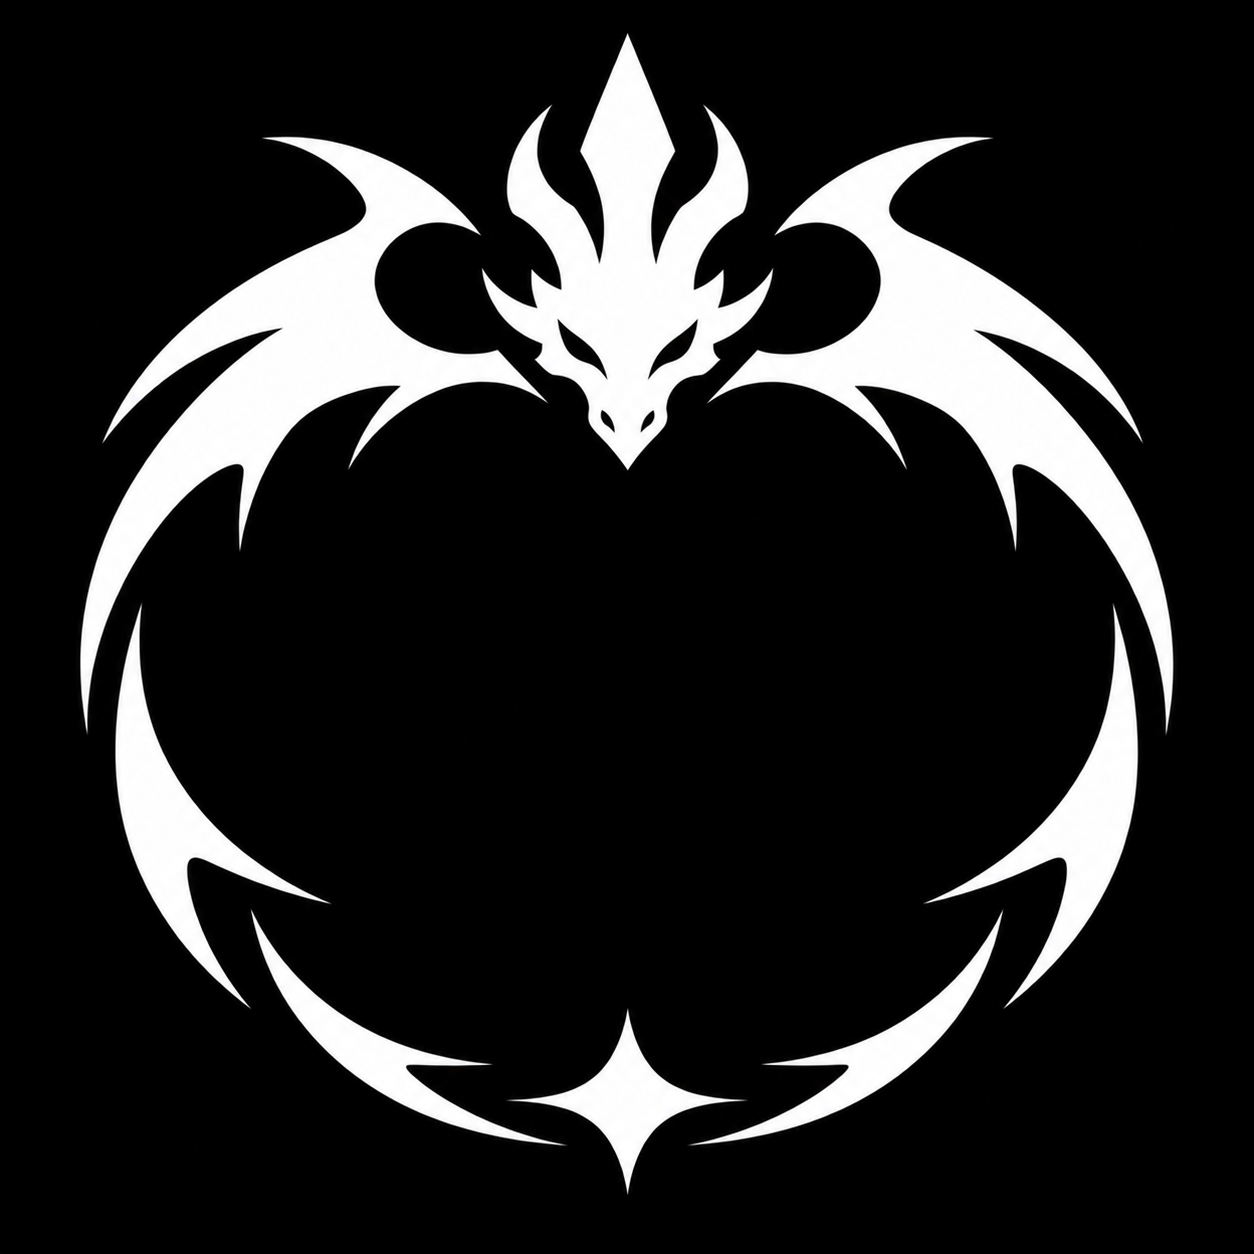
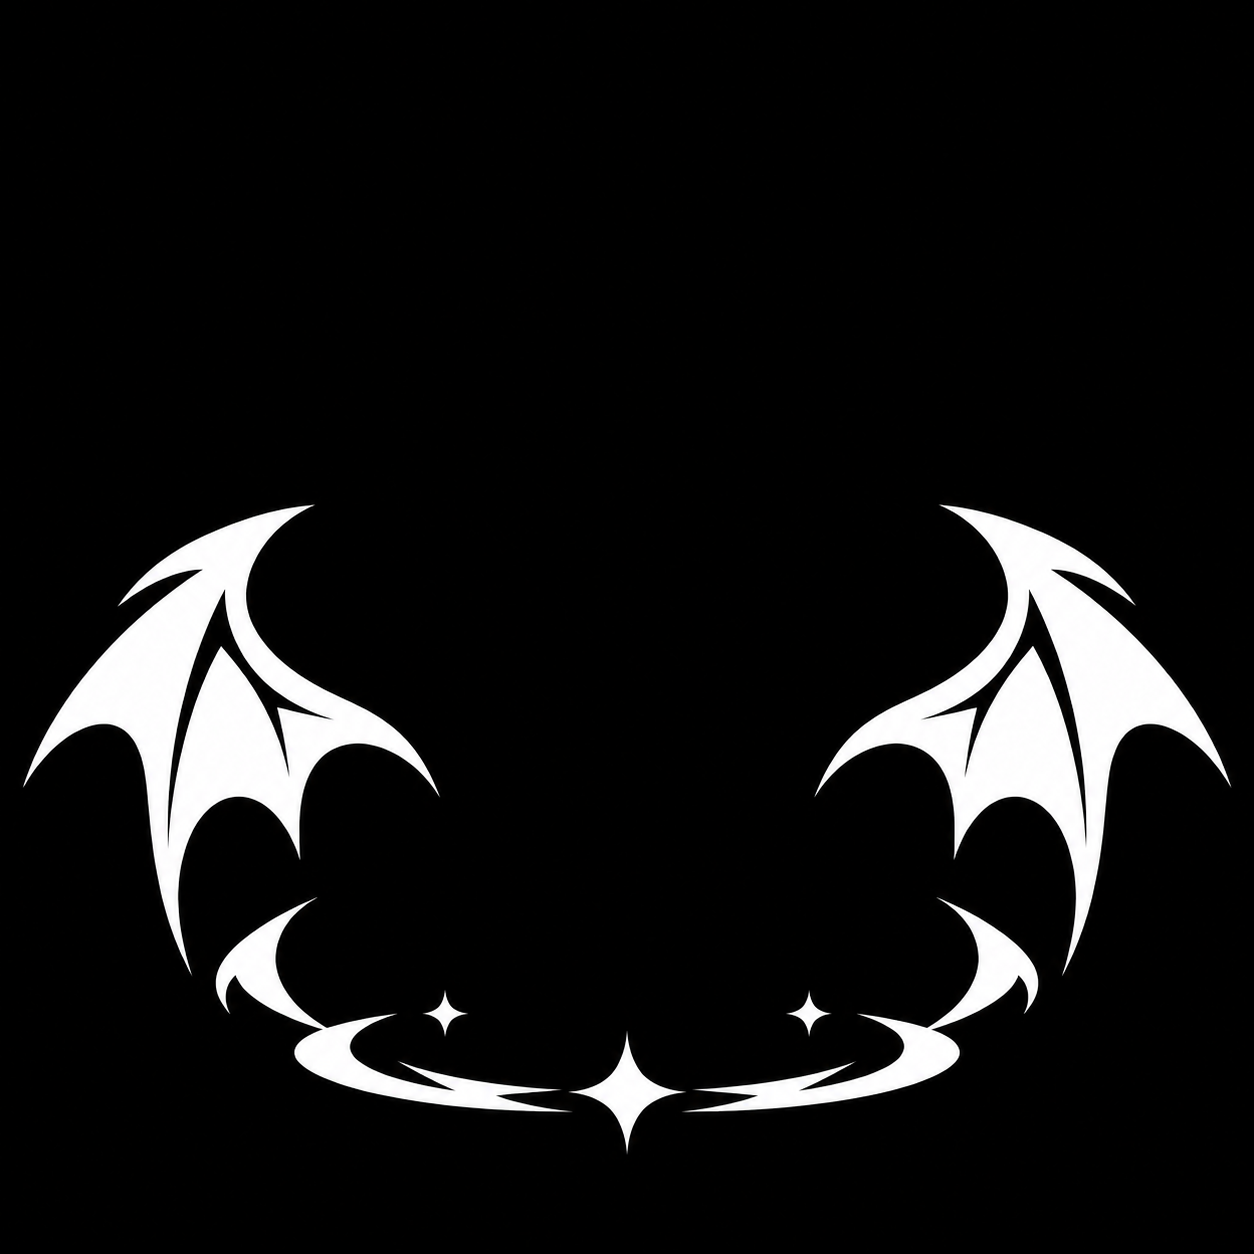
치복 타운: 레이드 세트 이펙트 새 그림(드래곤 붉게·오우거 초록, 무기는 지금 클래스만), 바로가기 '회관', 치트 전설 작물만

Changed region(s): [[0.0, 0.0311, 0.9641, 0.933], [0.9641, 0.5909, 0.9952, 0.622]]

diff --git a/game.html b/game.html
@@ -1587,16 +1587,22 @@ function drawEyes(g, c, ey, t) {
     else { g.beginPath(); g.ellipse(ex, ey, 2.4, 3.2, 0, 0, Math.PI * 2); g.fill(); }
   }
 }
-// ───── 레드 드래곤 세트 이펙트 (2026-11-20): 모자·눈·의상·검·활·지팡이 모두 레드 드래곤이면 등 뒤에 은은하게 빛나는 붉은 문양 (그림 fx-dragon, 흰 그림을 붉게 물들임)
-const dragonFull = c => c.hat === 'rdragon' && c.eyes === 'rdragon' && c.suit === 'rdragon' && c.wsk?.sword === 'rdragon' && c.wsk?.bow === 'rdragon' && c.wsk?.staff === 'rdragon';
-let FXD = null;
-function dragonAura(g, t) {
-  const im = ART['fx-dragon']; if (!im) return;
-  if (!FXD) { const W = 256, H = Math.round(W * im.height / im.width), cv = document.createElement('canvas'); cv.width = W; cv.height = H; const x = cv.getContext('2d');
-    x.drawImage(im, 0, 0, W, H); x.globalCompositeOperation = 'source-in'; const gr = x.createLinearGradient(0, 0, 0, H); gr.addColorStop(0, '#ff6a3a'); gr.addColorStop(.55, '#e8202a'); gr.addColorStop(1, '#a30d1e'); x.fillStyle = gr; x.fillRect(0, 0, W, H); FXD = cv; }
-  const p = .5 + .5 * Math.sin(t * 1.8), w = 104 * (1 + p * .04), h = w * FXD.height / FXD.width;
-  g.save(); g.globalAlpha = .45 + p * .25; g.shadowColor = 'rgba(255,40,30,.9)'; g.shadowBlur = 10 + p * 8;
-  g.drawImage(FXD, -w / 2, -33 - h / 2, w, h); g.restore();
+// ───── 레이드 세트 이펙트 (2026-11-20): 모자·눈·의상 + 지금 클래스 무기 스킨이 모두 그 레이드 세트면 등 뒤에 은은하게 빛나는 문양
+// 그림 fx-<세트>: 정사각 판 그대로, 판 가운데 아래 고리(세로 86%)가 발 자리. 흰 그림을 세트 색으로 물들임
+const RAID_FX = {
+  rdragon: { img: 'fx-dragon', c: ['#ff7a45', '#e8202a', '#a30d1e'], glow: 'rgba(255,40,30,.9)' },
+  ogre: { img: 'fx-ogre', c: ['#b8f06a', '#4fbf2e', '#1f7a1e'], glow: 'rgba(80,230,60,.9)' },
+};
+const raidFxOf = c => { for (const k in RAID_FX) if (c.hat === k && c.eyes === k && c.suit === k && c.wsk?.[c.cls || 'sword'] === k) return k; return null; };
+const AURA_C = {};
+function setAura(g, k, t) {
+  const R = RAID_FX[k], im = ART[R.img]; if (!im) return;
+  let cv = AURA_C[k];
+  if (!cv) { const W = 320, H = Math.round(W * im.height / im.width); cv = AURA_C[k] = document.createElement('canvas'); cv.width = W; cv.height = H; const x = cv.getContext('2d');
+    x.drawImage(im, 0, 0, W, H); x.globalCompositeOperation = 'source-in'; const gr = x.createLinearGradient(0, H * .4, 0, H * .92); gr.addColorStop(0, R.c[0]); gr.addColorStop(.55, R.c[1]); gr.addColorStop(1, R.c[2]); x.fillStyle = gr; x.fillRect(0, 0, W, H); }
+  const p = .5 + .5 * Math.sin(t * 1.8), w = 128 * (1 + p * .03), h = w * cv.height / cv.width;
+  g.save(); g.globalAlpha = .5 + p * .25; g.shadowColor = R.glow; g.shadowBlur = 8 + p * 8;
+  g.drawImage(cv, -w / 2, -h * .86, w, h); g.restore();
 }
 function drawChar(ctx, x, y, c, t = 0, scale = 1) {
   // (x, y) = 발 위치
@@ -1605,7 +1611,7 @@ function drawChar(ctx, x, y, c, t = 0, scale = 1) {
   const walk = c.moving && !sit ? Math.sin(t * 14) : 0;
   const bob = c.moving && !sit ? Math.abs(Math.sin(t * 14)) * 2 : Math.sin(t * 2.2 + (c.seed || 0)) * .6;
   if (!sit) { const rb = c.still ? 0 : c === me ? (me.roof?.h || 0) : (c.rz || 0), dz = Math.max(0, jz - rb), k = Math.max(.45, 1 - dz / 160); ctx.fillStyle = `rgba(31,42,58,${.18 * k})`; ctx.beginPath(); ctx.ellipse(0, dz, 11 * k, 3.5 * k, 0, 0, Math.PI * 2); ctx.fill(); }   // 지붕 위면 그림자도 지붕에
-  if (dragonFull(c)) dragonAura(ctx, t + (c.seed || 0));   // 2026-11-20 레드 드래곤 세트 6부위를 다 입으면 캐릭터 뒤에 붉은 드래곤 문양
+  { const fk = raidFxOf(c); if (fk) setAura(ctx, fk, t + (c.seed || 0)); }   // 2026-11-20 레이드 세트를 다 입으면 캐릭터 뒤에 문양 (드래곤 붉게 · 오우거 초록)
   const eq = c.equip || {}, hy = -45 - bob, P = [];
   // 뒷머리(긴 머리·묶은 머리)는 몸·팔보다 먼저 그려서 몸 뒤로
   const hp = hairParts(c.hair, c.hairC || HAIR_COLORS[0], hy);
@@ -1745,7 +1751,7 @@ function bootDone() { setTimeout(() => { try { localStorage.setItem('cbt-booting
 // ───── 사용자가 그린 그림 (텍스쳐 템플릿/내 디자인 → scripts/img-export/town-art.py → assets/img/town) ─────
 // 다 불러온 뒤에 마을을 시작함 (artReady). 못 불러온 그림은 예전 코드 그림을 그대로 씀
 const ART = {};
-const ART_N = ['fx-dragon', 'b-farmrank', 'b-suggest', 'b-beginner', 'b-dex', 'bench', 'b-tower', 'b-kfr', 'dportal', 'dportal-hole', 'b-gacha', 'b-cafe', 'b-skin', 'b-hall', 'b-smith', 'b-fishshop', 'b-fishrank', 'b-lumber', 'b-quarry', 'b-farmshed', 'farm', 'raid-bg', 'fountain', 'fountain-water', ...[1, 2, 3, 4, 5, 6, 7, 8].map(i => 'hair-' + i),
+const ART_N = ['fx-dragon', 'fx-ogre', 'b-farmrank', 'b-suggest', 'b-beginner', 'b-dex', 'bench', 'b-tower', 'b-kfr', 'dportal', 'dportal-hole', 'b-gacha', 'b-cafe', 'b-skin', 'b-hall', 'b-smith', 'b-fishshop', 'b-fishrank', 'b-lumber', 'b-quarry', 'b-farmshed', 'farm', 'raid-bg', 'fountain', 'fountain-water', ...[1, 2, 3, 4, 5, 6, 7, 8].map(i => 'hair-' + i),
   ...[1, 2, 3, 4, 5].map(i => 'tree-' + i), ...[1, 2, 3, 4, 5, 6, 7, 8].flatMap(i => ['house-' + i, 'house-' + i + '-roof']),
   ...['head', 'wing', 'arm', 'body', 'leg'].map(n => 'd-' + n), 'rd-hat', 'rd-suit', 'rd-sword', 'rd-bow', 'rd-staff', 'portal', 'portal-hole',
   ...['head', 'body', 'rarm', 'larm', 'leg', 'hat', 'suit', 'eyes', 'sword', 'bow', 'staff'].map(n => 'og-' + n), ...['hat', 'suit', 'eyes', 'sword', 'bow', 'staff'].flatMap(n => ['mg-' + n, 'fk-' + n, 'mk-' + n, 'fa-' + n]), 'ogre-bg'];
@@ -6212,12 +6218,12 @@ function smTag(now) {
   if (p.bubble && p.bubble.until > now) bubbleAt(p.x, p.y - 68, p.bubble.text);
 }
 // 바로가기: [아이콘, 이름, x, y]. 2026-11-17 이름만 짧게 (한 화면에 다 들어오게)
-const PLACES = [['⛲', '광장', START.x, START.y], ['🏛', '마을회관', ...door('hall')], ['🌀', '사냥', BACK.x, BACK.y],
+const PLACES = [['⛲', '광장', START.x, START.y], ['🏛', '회관', ...door('hall')], ['🌀', '사냥', BACK.x, BACK.y],
   ['🎰', '가챠', ...door('gacha')], ['🔨', '강화', ...door('smith')], ['👕', '스킨', ...door('skin')], ['☕', '카페', ...door('cafe')], ['🪝', '낚시', ...door('fishshop')], ['📖', '도감', ...door('dex')],
   ['🎣', '강', FISH_AT.x, FISH_AT.y], ['🐚', '바다', SEA_AT.x, SEA_AT.y], ['🌾', '텃밭', ...door('farmshed')], ['🪓', '벌목', ...door('lumber')], ['⛏', '채석', ...door('quarry')]];
 // 바로가기로 가면 그 시설 창도 바로 열기
 function placeOpen(n) {
-  const bid = { '가챠': 'gacha', '카페': 'cafe', '스킨': 'skin', '강화': 'smith', '마을회관': 'hall', '낚시': 'fishshop', '도감': 'dex', '벌목': 'lumber', '채석': 'quarry' }[n];
+  const bid = { '가챠': 'gacha', '카페': 'cafe', '스킨': 'skin', '강화': 'smith', '회관': 'hall', '낚시': 'fishshop', '도감': 'dex', '벌목': 'lumber', '채석': 'quarry' }[n];
   if (bid) return openBuilding(BUILDINGS.find(b => b.id === bid));
   if (n === '광장') return openWish();
   if (n === '강') return openFishing();
@@ -7391,6 +7397,7 @@ async function openAdmin(tab = ADM.tab) {
       <div class="btns cheat">${B('gear', 0, '🗡 최고 장비 + 최고 강화')}${B('titles', 0, '🏷 칭호 모두')}${B('skins', 0, '👕 모든 스킨 받기')}${B('rskmax', 0, '⭐ 레이드 스킨 최고 레벨')}${B('skmax', 0, '⚡ 모든 스킬 최고 레벨')}${B('pots', 0, '🥤 물약·체력 가득')}</div>
       <div class="btns cheat">${B('wood', 1000, '🪵 목재 +1000')}${B('stone', 1000, '🪨 석재 +1000')}${B('fishmax', 1, '🎣 낚싯대·미끼 최고')}${B('farmmax', 1, '🧺 호미·비료 최고')}</div>
       <label class="ck" style="display:flex;gap:8px;align-items:center;margin:6px 0"><input type="checkbox" data-x="lgonly:0" ${me.life?.lgOnly ? 'checked' : ''}> 🐟 전설 물고기만 낚이기 (던지면 늘 낚임)</label>
+      <label class="ck" style="display:flex;gap:8px;align-items:center;margin:6px 0"><input type="checkbox" data-x="lgcrop:0" ${me.life?.lgCrop ? 'checked' : ''}> 🌾 전설 작물만 수확하기 (지금부터 심는 씨앗)</label>
       <div class="btns cheat">${B('farm', 0, '🌾 텃밭 다 자람')}${B('work', 0, '🪓 알바 창고 가득')}${B('cool', 0, '⏱ 기다리는 시간 없애기')}</div>
       <p class="muted" style="margin-bottom:4px">직접 숫자 넣기 (빼려면 -를 붙여요)</p>
       <div class="admform"><input id="cN" type="number" placeholder="숫자" value="1000"><select id="cK"><option value="gold">골드 더하기</option><option value="exp">경험치 더하기</option><option value="lv">레벨 정하기</option><option value="wood">목재 더하기</option><option value="stone">석재 더하기</option></select><button class="mini main" data-x="custom">적용</button></div>`,
@@ -7400,7 +7407,7 @@ async function openAdmin(tab = ADM.tab) {
         if (k === 'custom') { k = el.querySelector('#cK').value; n = el.querySelector('#cN').value; }
         if (k === 'lv' && !(await ask('능력치가 다시 계산돼요.', { title: `${n}레벨로 바꿀까요?` }))) return;
         const j = await act('/api/admin/cheat', { k, n: Number(n) }); if (!j) return;
-        toast('🧪 ' + j.msg); sysMsg('🧪 치트: ' + j.msg); if (k === 'god' || k === 'skins' || k === 'rskmax' || k === 'skmax' || k === 'lgonly') openAdmin('cheat');
+        toast('🧪 ' + j.msg); sysMsg('🧪 치트: ' + j.msg); if (k === 'god' || k === 'skins' || k === 'rskmax' || k === 'skmax' || k === 'lgonly' || k === 'lgcrop') openAdmin('cheat');
       });
   }
   if (tab === 'notice') {

diff --git a/game-worker/src/index.js b/game-worker/src/index.js
@@ -659,7 +659,9 @@ const GAME = {
     let idx;
     if (b.all) { idx = []; for (let i = 0; i < n; i++) if (!f.plots[i]) idx.push(i); if (!idx.length) fail(400, '빈 밭이 없어요'); }
     else { const i = Number(b.i); if (!Number.isInteger(i) || i < 0 || i >= FARM.maxPlots) fail(400, '없는 밭이에요'); if (i >= n) fail(400, '아직 잠긴 밭이에요. 호미를 올리면 열려요'); if (f.plots[i]) fail(400, '이미 심은 밭이에요'); idx = [i]; }
-    for (const i of idx) { const r = rollCrop(f.hoe, f.fert); if (!r) fail(500, '씨앗을 심을 수 없어요 (설정 오류)'); f.plots[i] = { at, r: at + r.sec * 1000, id: r.id, g: r.g, p: r.p }; }
+    for (const i of idx) { let r = rollCrop(f.hoe, f.fert); if (!r) fail(500, '씨앗을 심을 수 없어요 (설정 오류)');
+      if (c.life.lgCrop) for (let k = 0; k < 400 && CROP_BY[r.id]?.grade !== 'legend'; k++) r = rollCrop(9, 9) || r;   /* 관리자 치트: 전설 작물만 */
+      f.plots[i] = { at, r: at + r.sec * 1000, id: r.id, g: r.g, p: r.p }; }
     cntAdd(c, 'plant', idx.length);
     return { planted: idx.length, log: ['plant', `${idx.length}칸`] };
   },
@@ -1081,6 +1083,7 @@ function cheat(c, k, b, at, env, user) {
   }
   if (k === 'farm') { for (const p of L.farm.plots) if (p) p.r = at; return { msg: '텃밭 다 자람' }; }
   if (k === 'fishmax') { L.fish.rod = RODS.length - 1; L.fish.bait = BAITS.length - 1; return { msg: '낚싯대 · 미끼 최고 단계' }; }   // 2026-11-20
+  if (k === 'lgcrop') { L.lgCrop = !L.lgCrop; return { msg: L.lgCrop ? '전설 작물만 심기 켬 (지금부터 심는 씨앗)' : '전설 작물만 심기 끔' }; }
   if (k === 'lgonly') { L.lgOnly = !L.lgOnly; return { msg: L.lgOnly ? '전설 물고기만 낚이기 켬' : '전설 물고기만 낚이기 끔' }; }
   if (k === 'farmmax') { L.farm.hoe = 9; L.farm.fert = 9; return { msg: '호미 · 비료 최고 단계' }; }
   if (k === 'work') {

diff --git a/scripts/img-export/town-art.py b/scripts/img-export/town-art.py
@@ -318,10 +318,12 @@ print('dportal hole', hb, t.shape)
 # 13) 벤치 (2026-11-20 새 그림, 배경 투명)
 r = keep_rgba('벤치'); b = bbox(r[:, :, 3]); save('bench', r[b[1]:b[3], b[0]:b[2]], width=240)
 
-# 14) 드래곤 세트 이펙트 (2026-11-20): 검은 바탕 + 흰 그림 → 밝기를 투명도로 (흰 그림만 남김). 화면이 붉게 물들여 캐릭터 뒤에 은은하게
-g = np.asarray(Image.open(os.path.join(SRC, '이펙트_드래곤 세트.png')).convert('L')).astype(np.float32)
-al = np.clip((g - 30) * 255 / 200, 0, 255).astype(np.uint8); fx = np.dstack([np.full_like(al, 255)] * 3 + [al]); b = bbox(al)
-save('fx-dragon', fx[b[1]:b[3], b[0]:b[2]], width=512)
+# 14) 레이드 세트 이펙트 (2026-11-20): 검은 바탕 + 흰 그림, 정사각 판 그대로 (자르지 않음: 판 가운데 아래 고리 = 발 자리).
+#     밝기를 투명도로 (흰 그림만 남김) → 화면이 색을 물들여 캐릭터 뒤에 은은하게. 드래곤 = 붉게, 오우거 = 초록
+for nm, key in [('드래곤', 'fx-dragon'), ('오우거', 'fx-ogre')]:
+    g = np.asarray(Image.open(os.path.join(SRC, f'이펙트_{nm} 세트.png')).convert('L')).astype(np.float32)
+    al = np.clip((g - 30) * 255 / 200, 0, 255).astype(np.uint8)
+    save(key, np.dstack([np.full_like(al, 255)] * 3 + [al]), width=512)
 
 json.dump(META, open(os.path.join(OUT, 'meta.json'), 'w'), ensure_ascii=False, indent=1)
 print(json.dumps(META, ensure_ascii=False))

diff --git a/CLAUDE.md b/CLAUDE.md
@@ -495,7 +495,7 @@
 - 음료: 작은 20% · 큰 50% · 특대 100% (최대 체력 비율). 고르는 규칙 `potPick` 하나를 화면·서버가 같이 씀
 - 생활 경험치 줄임: `LIFE_EXP_DIV` 250·60·55·40 → 1000·300·120·150
 - 카페 '창가 자리에서 쉬기' 삭제 (`/api/rest`도 없앰). 첫 집 골드 3,000 → 10,000. 레이드 모집 30초 → **2분** (`RAID.recruit`)
-- 건물 창 촘촘하게: `@media (pointer: fine), (max-height: 820px)` 블록 (style 맨 위 `.bs` 부분 끝). 바로가기는 이름만 13칸(광장·마을회관·사냥·가챠·강화·스킨·카페·낚시·강·바다·텃밭·벌목·채광)
+- 건물 창 촘촘하게: `@media (pointer: fine), (max-height: 820px)` 블록 (style 맨 위 `.bs` 부분 끝). 바로가기는 이름만 13칸(광장·회관·사냥·가챠·강화·스킨·카페·낚시·강·바다·텃밭·벌목·채광)
 - 자동 생활 텃밭: 빈 칸은 `farmTap(i, true)` → `/api/farm/plantall`로 한 번에
 - ~~손 낚시: 한 번 누르면 계속~~ → 2026-11-18 다시 클릭형: 한 번 누르면 한 번만 던지고, 결과가 나온 뒤 2초(`FISHING.cooldown`) 쉬어야 다시 던짐 (`F.loop` 없앰)
 - **화면 맞춤** (2026-11-17): PC 배율 = 설정값 × `uiFit()` (창 높이 940·너비 1700 기준으로 줄임, 최소 0.8). 1280×720이면 약 0.9
@@ -569,7 +569,7 @@
 - 오우거 공격 (`raidPattern(start, 'ogre')`): 💥 내려찍기 slam(큰 원 1~2개) · 🪨 바위 던지기 rock(작은 원 3~5개, 손에서 포물선으로 날아옴) · 몽둥이 휘두르기 swing(앞쪽 부채꼴 `OGRE_SWING`) · 포효. 피해 `RAID_HIT`
 - 그림: `내 디자인/오우거_다리·몸통·오른팔·왼팔·머리.png` + `배경_오우거.png` → town-art.py 9번 → `og-leg/body/rarm/larm/head.webp`(절반 크기), `ogre-bg.webp`, meta `ogre`(판 좌표). game.html `drawOgre` (`OPART`, 오른팔은 어깨 `OSHOULDER` 기준으로 공격 예고 동안 치켜들고 칠 때 내려침, 예고 중 눈이 붉게). 배경 화로 불빛·불티는 `ogreAmbient`
 - 오우거 스킨 (템플릿 `char/hat_guide_오우거.png`, `char/suit-front_guide_오우거.png`, `weapon/*_guide_오우거.png`) → `og-hat/suit/sword/bow/staff.webp`, meta `og` → game.html `OGS`. id는 모두 `ogre` (HATS·SUITS·WSKINS, `raid: 'ogre'`)
-- **레드 드래곤 세트 이펙트** (2026-11-20): 모자·눈·의상·검·활·지팡이 6부위를 모두 레드 드래곤으로 입으면 캐릭터 뒤에 붉게 은은히 빛나는 드래곤 문양 (`dragonFull`, `dragonAura`, drawChar 맨 앞). 그림 `내 디자인/이펙트_드래곤 세트.png`(검은 바탕 흰 그림) → town-art.py 14번 → `fx-dragon.webp`(흰 그림, 화면이 붉게 물들임)
+- **레이드 세트 이펙트** (2026-11-20): 모자·눈·의상 + **지금 클래스 무기** 스킨이 모두 그 레이드 세트면 캐릭터 뒤에 은은히 빛나는 문양 — 드래곤 붉게 · 오우거 초록 (`RAID_FX`, `raidFxOf`, `setAura`, drawChar 맨 앞). 그림 `내 디자인/이펙트_드래곤 세트.png`·`이펙트_오우거 세트.png`(검은 바탕 흰 그림, 정사각 판 그대로 · 아래 고리 = 발, 세로 86%) → town-art.py 14번 → `fx-dragon/fx-ogre.webp`
 - 오우거 눈 스킨 `eye:ogre` 추가 (레이드 세트 6부위)
 - 스킨샵 레이드 탭은 보스별로 나눠 보임. 치트 탭: '👕 모든 스킨 받기' + '⭐ 레이드 스킨 최고 레벨'(`rskmax`: 모든 레이드 스킨 Lv10)
 
@@ -731,6 +731,7 @@
 - 자동 생활: 물고기 가방이 꽉 차면(`bagFull`) 낚시 차례를 건너뛰고, 작물 가방이 꽉 차면(`cropFull`) 텃밭 일을 쉼
 - **사냥 중 경험치 막대는 실시간**: `syncBars`가 서버 값 + 화면에서 잡은 만큼(`HT.loc.exp`)을 보여 주고, 레벨이 오를 만큼 모이면 바로 `huntSync`(8초에 한 번까지) → 서버가 진짜 레벨업
 - 🏆 랭킹 창(오른쪽 버튼)에서 물고기 탭 3개 뺌 (물고기 순위는 낚시 랭킹판에서). 서버 `fishp/fishl/fishn`은 그대로
+- 치트 `lgcrop`(체크: 전설 작물만, 켠 뒤 심는 씨앗부터, `life.lgCrop`)
 - 치트 추가: `skmax`(모든 스킬 Lv10) · `fishmax`(낚싯대·미끼 최고) · `lgonly`(체크: 전설 물고기만 + 늘 낚임, `life.lgOnly`)
 
 ### 다음: 4-2단계
